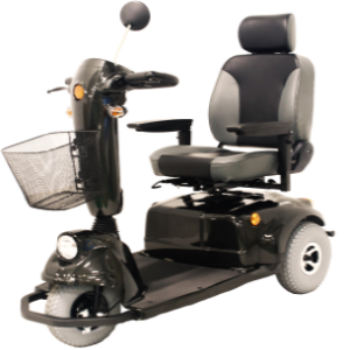
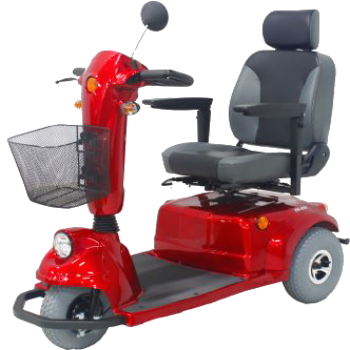
Nye pænere billeder af de to modeller fixet.

diff --git a/src/components/products/ProductsFooterText.js b/src/components/products/ProductsFooterText.js
@@ -6,8 +6,8 @@ function ProductsFooterText() {
   return (
     <React.Fragment>
       <p className="footerTextStyles">
-        Listen viser samtlige elscootere og reservedele i databasen. Mere info
-        findes ved at klikke på det enkelte produkt.
+        Listen viser samtlige elscootere og reservedele i databasen. Klik på det
+        enkelte produkt for at se mere info, redigere eller slette.
       </p>
     </React.Fragment>
   );

diff --git a/src/components/chooseSubCategory/ChooseSubCategory.js b/src/components/chooseSubCategory/ChooseSubCategory.js
@@ -10,7 +10,7 @@ function ChooseSubCategory() {
   return (
     <Container className="contentWrapper">
       <h3 className="mb-3">Vælg splittegning</h3>
-      <ListGroup className="fadeIn">
+      <ListGroup className="fadeIn mb-3">
         <SubCategories />
       </ListGroup>
     </Container>
